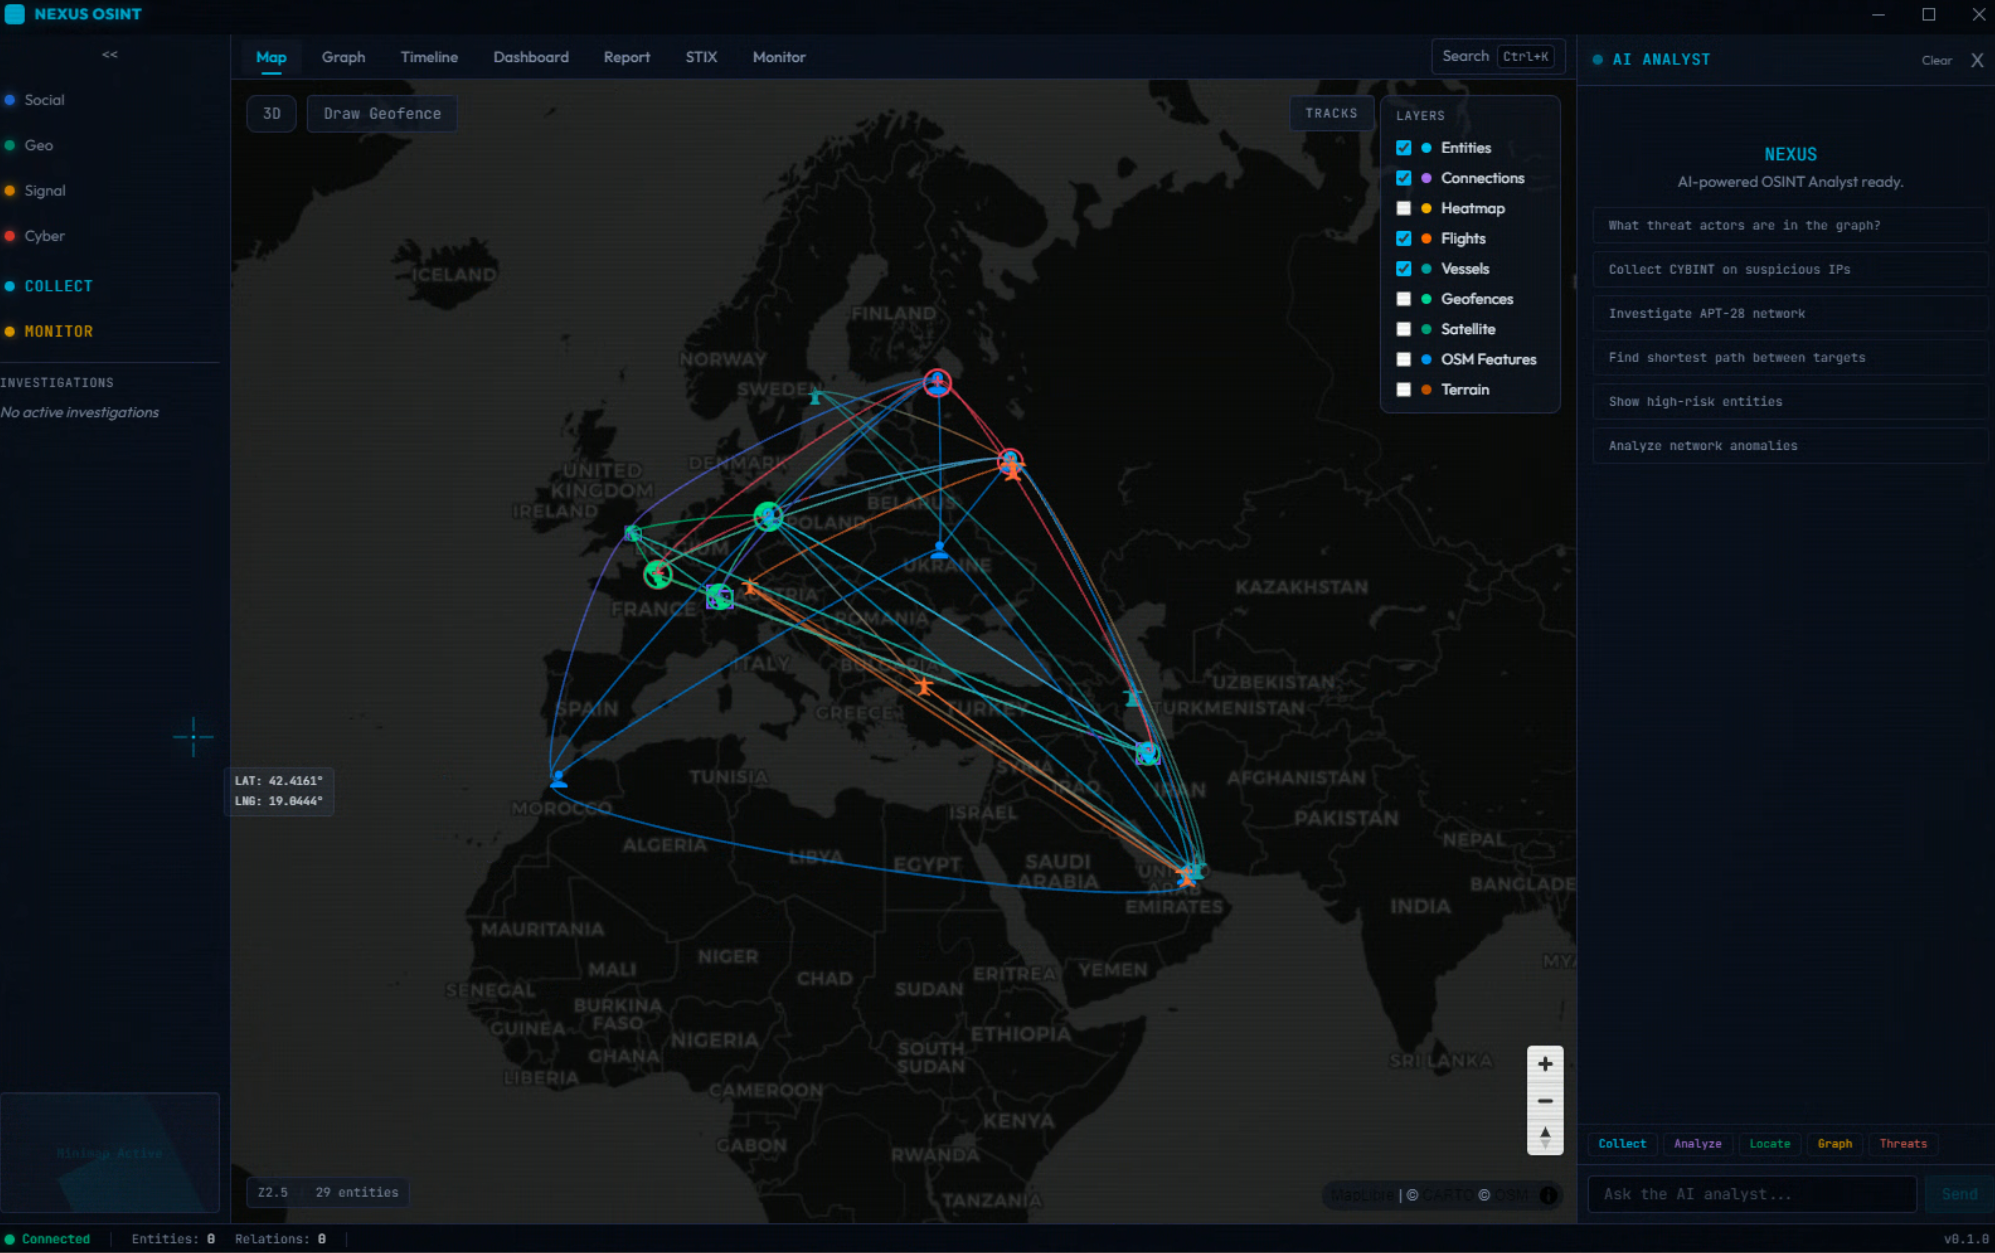
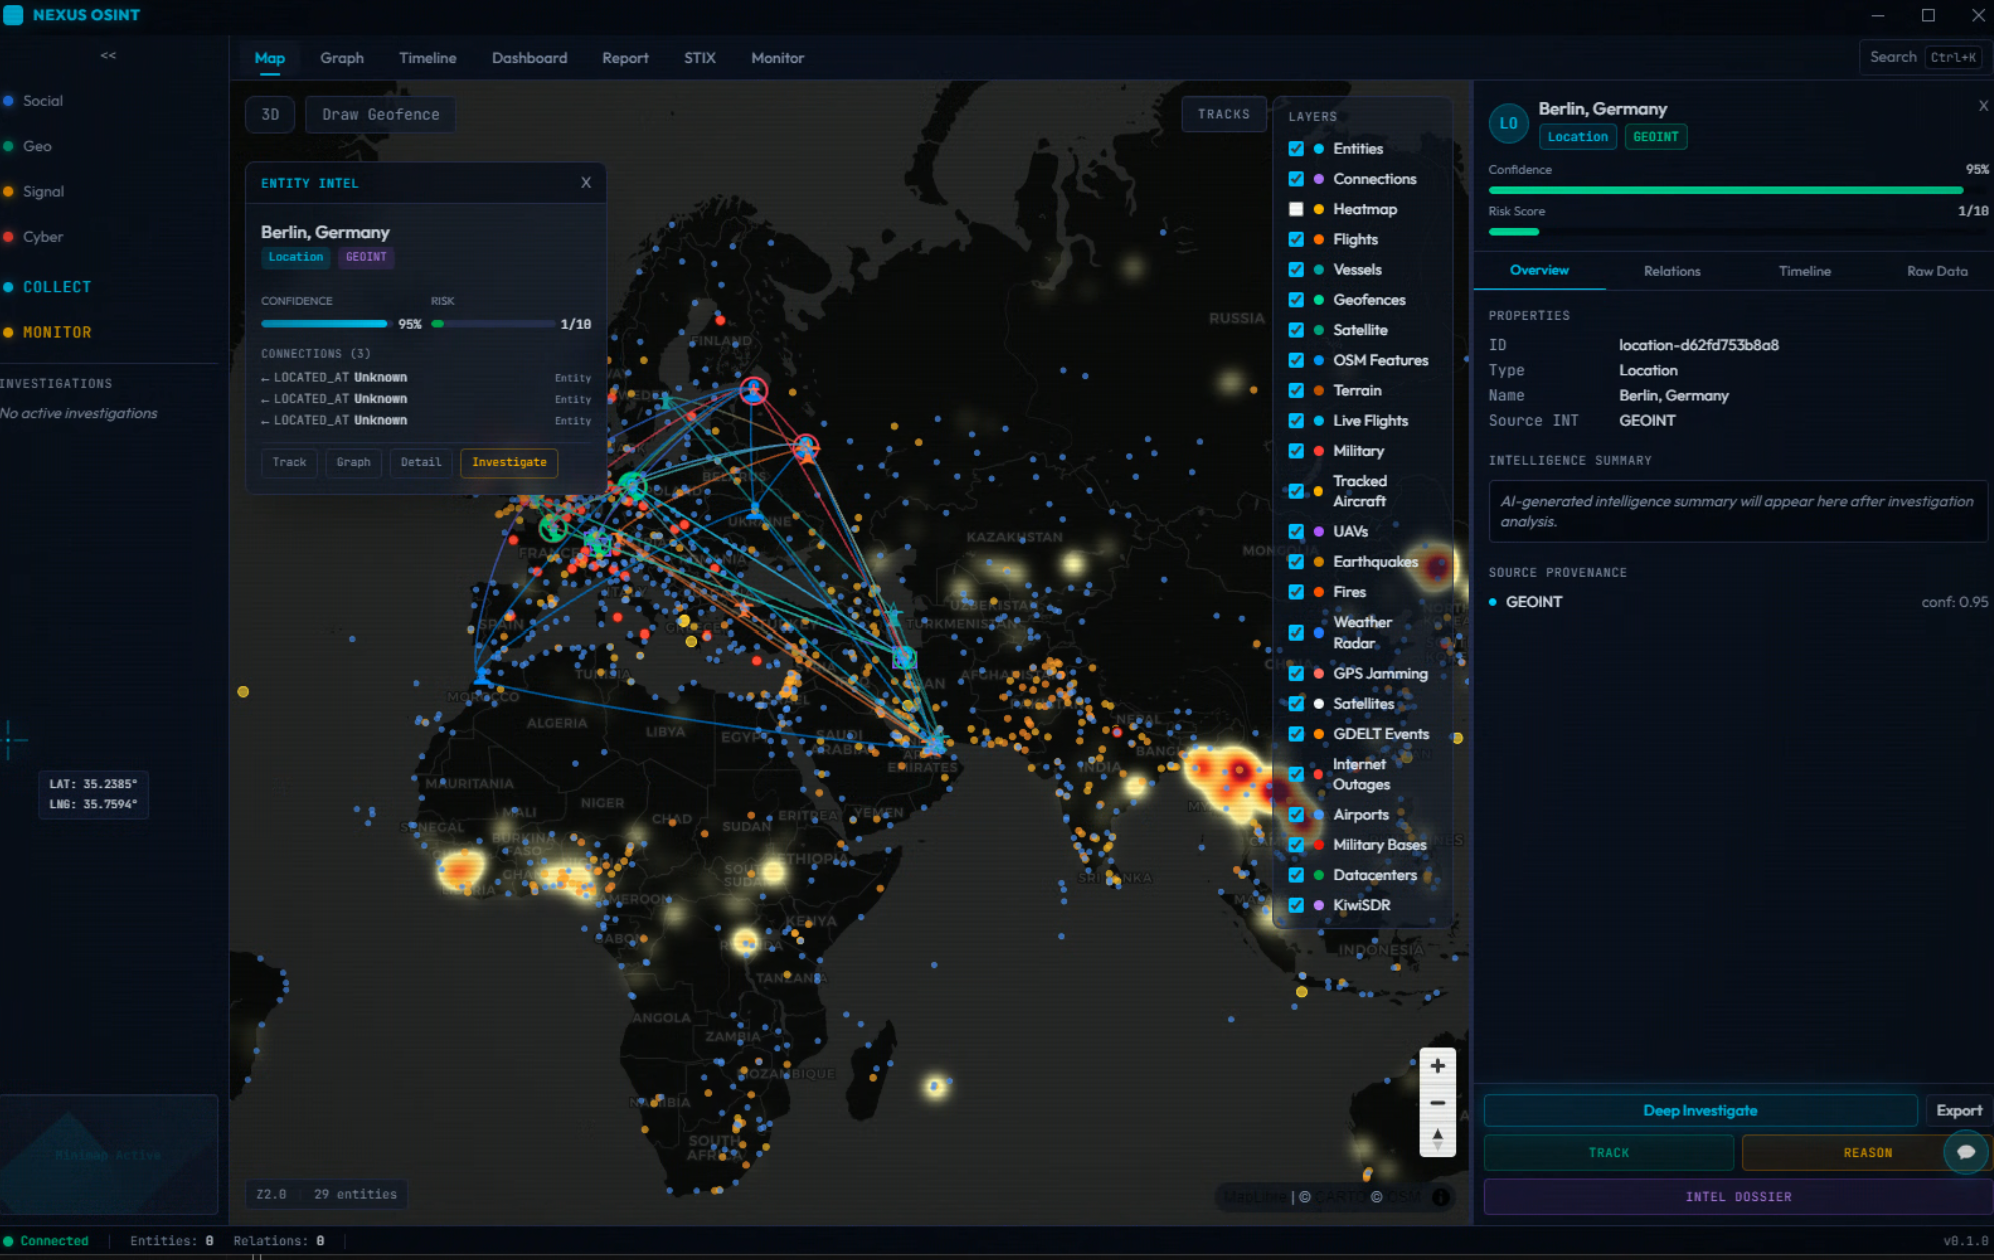
README.md Replace commit

diff --git a/README.md b/README.md
@@ -32,11 +32,11 @@
 ---
 
 <p align="center">
-  <video src="pics/osint_demo.mp4" width="100%" autoplay loop muted playsinline>
-    Your browser does not support the video tag.
-  </video>
+  <a href="pics/osint_demo.mp4">
+    <img src="pics/OSINT_2D.png" alt="NEXUS Demo Video — Click to watch" width="100%">
+  </a>
   <br>
-  <em>NEXUS in Action — Real-time Multi-INT OSINT fusion with 30+ live data sources</em>
+  <em>▶ Click the image above to watch the demo video — Real-time Multi-INT OSINT fusion with 30+ live data sources</em>
 </p>
 
 ---
@@ -47,12 +47,6 @@
   <img src="pics/OSINT_2D.png" alt="NEXUS 2D Map View — Global entity relationship visualization with multi-layer overlays" width="100%">
   <br>
   <em>2D Map View — Global entity network visualization with Deck.gl multi-layer rendering</em>
-</p>
-
-<p align="center">
-  <img src="pics/OSINT_3D.png" alt="NEXUS 3D Globe View — Entity inspection with connection analysis on CesiumJS globe" width="100%">
-  <br>
-  <em>3D Globe View — Entity inspection with real-time connection analysis</em>
 </p>
 
 <p align="center">
